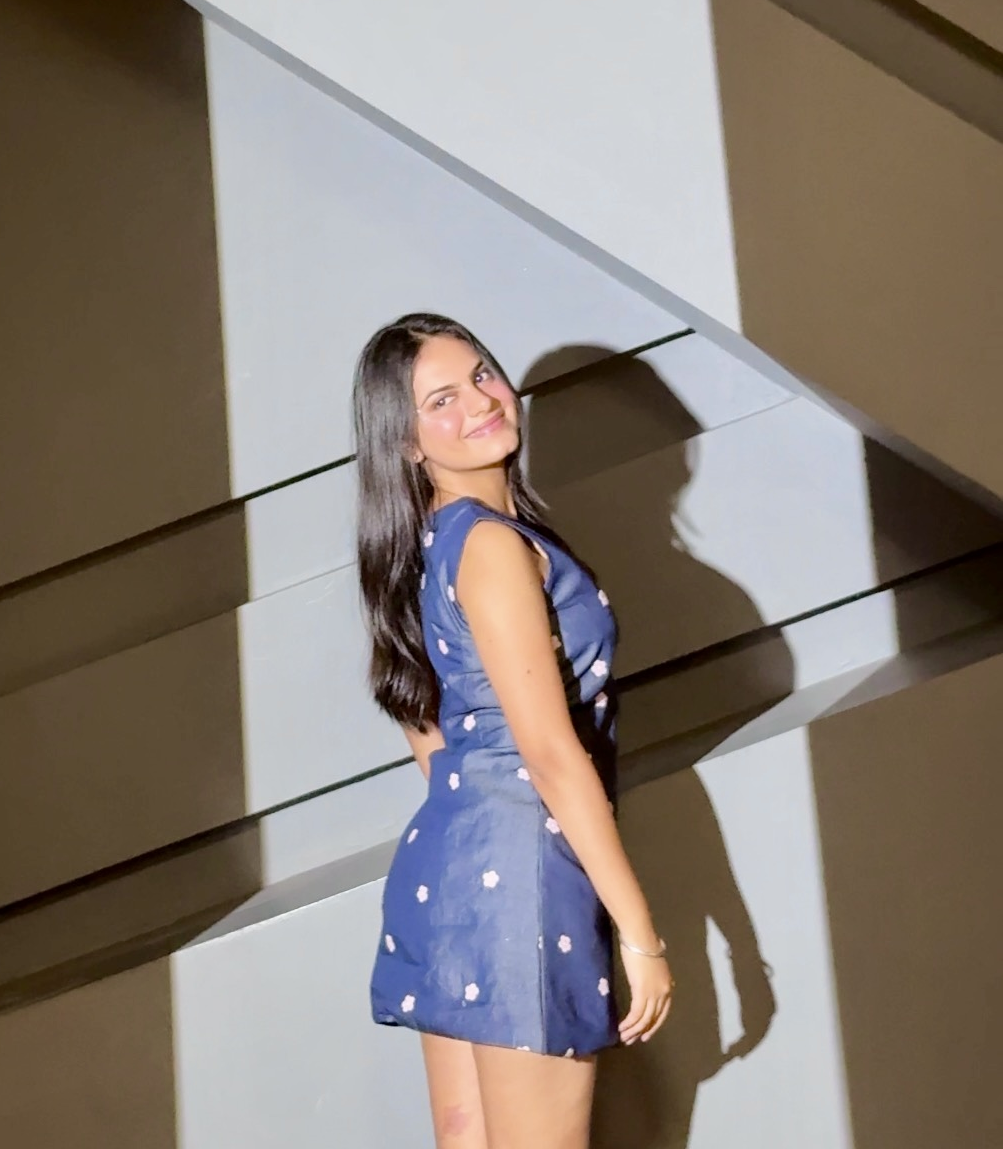
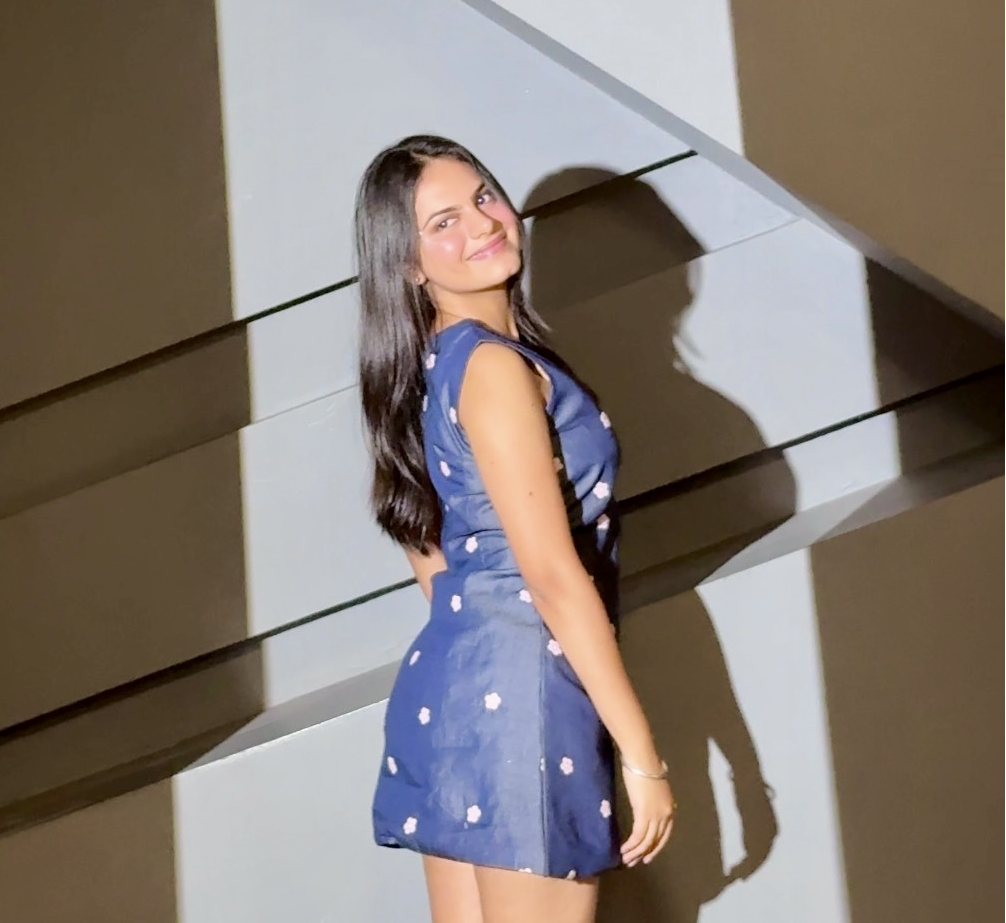
hero changes

diff --git a/src/app/components/Hero.jsx b/src/app/components/Hero.jsx
@@ -14,10 +14,10 @@ import STREETCHIC from '../../assets/street_chic.png';
 
 // --- MOBILE IMAGES (Make sure you have these image files in your assets folder) ---
 import ITGIRL_MOBILE from '../../assets/it_girl_mobile.jpg';
-import DESIDIVA_MOBILE from '../../assets/desi_diva.png';
-import BLOOMGIRL_MOBILE from '../../assets/bloom_girl.png';
+import DESIDIVA_MOBILE from '../../assets/desi_diva_mobile.png';
+import BLOOMGIRL_MOBILE from '../../assets/bloom_girl_mobile.png';
 import GIRLYPOP_MOBILE from '../../assets/Girly pop2.png';
-import STREETCHIC_MOBILE from '../../assets/street_chic.png';
+import STREETCHIC_MOBILE from '../../assets/street_chic_mobile.png';
 
 // A reusable card component for each image box
 const ImageCard = ({ src, mobileSrc, title, containerClassName }) => {
